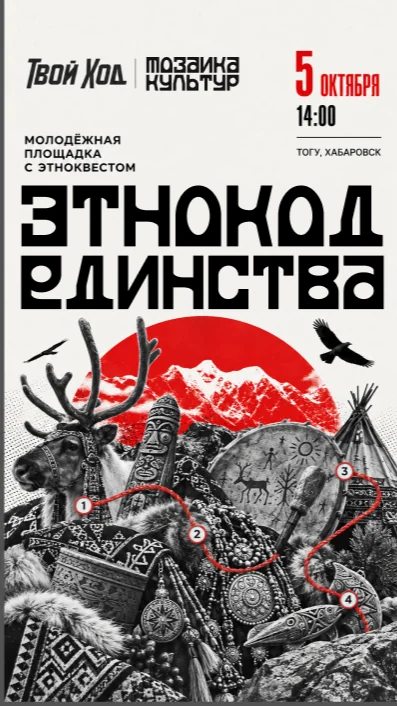
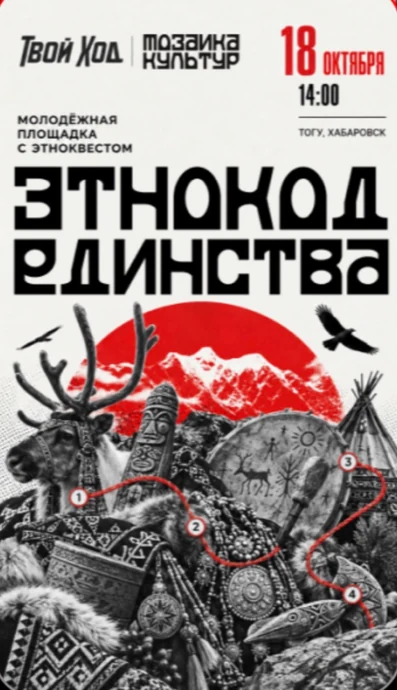
Update Ethnocode Unity poster and event date to October 18

diff --git a/index.html b/index.html
@@ -143,8 +143,8 @@
           <div class="upcoming-heading"><p class="overline">афиша · 2026</p><h2 id="upcoming-title">Планируемые мероприятия</h2><p>Новые встречи с культурами Дальнего Востока.</p><a class="upcoming-archive" href="#events">Прошедшие встречи <span aria-hidden="true">↓</span></a></div>
           <div class="upcoming-grid">
             <article class="upcoming-card" id="upcoming-ethnocode-unity">
-              <a class="upcoming-poster" href="assets/events/upcoming/ethnocode-unity-397.webp" target="_blank" rel="noopener" aria-label="Открыть афишу «Этнокод единства» (в новой вкладке)"><picture><source media="(max-width: 760px)" type="image/webp" srcset="assets/home-mobile-v3/upcoming/ethnocode-unity-240.webp 240w, assets/home-mobile-v3/upcoming/ethnocode-unity-384.webp 384w" sizes="calc(50vw - 26px)" /><img src="assets/events/upcoming/ethnocode-unity-397.webp" srcset="assets/events/upcoming/ethnocode-unity-320.webp 320w, assets/events/upcoming/ethnocode-unity-397.webp 397w" sizes="(min-width: 1200px) 280px, (min-width: 761px) 44vw, calc(50vw - 26px)" alt="Афиша «Этнокод единства»: 5 октября, 14:00. ТОГУ, Хабаровск" width="397" height="706" loading="lazy" decoding="async" /></picture><span class="upcoming-poster-link">Открыть афишу <svg viewBox="0 0 24 24" fill="none" stroke="currentColor" stroke-width="1.8" stroke-linecap="round" stroke-linejoin="round" aria-hidden="true"><path d="M5 12h14M12 5l7 7-7 7"/></svg></span></a>
-              <div class="upcoming-copy"><p class="upcoming-date"><time datetime="2026-10-05T14:00:00+10:00">5 октября</time><span>14:00</span></p><h3>Этнокод единства</h3><p class="upcoming-description">Молодёжная площадка с этноквестом.</p><p class="upcoming-place">ТОГУ, Хабаровск</p></div>
+              <a class="upcoming-poster" href="assets/events/upcoming/ethnocode-unity-oct18.jpg" target="_blank" rel="noopener" aria-label="Открыть афишу «Этнокод единства» (в новой вкладке)"><picture><source media="(max-width: 760px)" type="image/webp" srcset="assets/home-mobile-v3/upcoming/ethnocode-unity-240.webp?v=20261018 240w, assets/home-mobile-v3/upcoming/ethnocode-unity-384.webp?v=20261018 384w" sizes="calc(50vw - 26px)" /><img src="assets/events/upcoming/ethnocode-unity-397.webp?v=20261018" srcset="assets/events/upcoming/ethnocode-unity-320.webp?v=20261018 320w, assets/events/upcoming/ethnocode-unity-397.webp?v=20261018 397w" sizes="(min-width: 1200px) 280px, (min-width: 761px) 44vw, calc(50vw - 26px)" alt="Афиша «Этнокод единства»: 18 октября, 14:00. ТОГУ, Хабаровск" width="397" height="690" loading="lazy" decoding="async" /></picture><span class="upcoming-poster-link">Открыть афишу <svg viewBox="0 0 24 24" fill="none" stroke="currentColor" stroke-width="1.8" stroke-linecap="round" stroke-linejoin="round" aria-hidden="true"><path d="M5 12h14M12 5l7 7-7 7"/></svg></span></a>
+              <div class="upcoming-copy"><p class="upcoming-date"><time datetime="2026-10-18T14:00:00+10:00">18 октября</time><span>14:00</span></p><h3>Этнокод единства</h3><p class="upcoming-description">Молодёжная площадка с этноквестом.</p><p class="upcoming-place">ТОГУ, Хабаровск</p></div>
             </article>
             <article class="upcoming-card" id="upcoming-wind-trail">
               <a class="upcoming-poster" href="assets/events/upcoming/wind-trail-453.webp" target="_blank" rel="noopener" aria-label="Открыть афишу «По следам ветра» (в новой вкладке)"><picture><source media="(max-width: 760px)" type="image/webp" srcset="assets/home-mobile-v3/upcoming/wind-trail-240.webp 240w, assets/home-mobile-v3/upcoming/wind-trail-384.webp 384w" sizes="calc(50vw - 26px)" /><img src="assets/events/upcoming/wind-trail-453.webp" srcset="assets/events/upcoming/wind-trail-320.webp 320w, assets/events/upcoming/wind-trail-453.webp 453w" sizes="(min-width: 1200px) 280px, (min-width: 761px) 44vw, calc(50vw - 26px)" alt="Афиша «По следам ветра»: 11 ноября, 18:00. Досуговый центр · ул. Шевченко, 7А" width="453" height="800" loading="lazy" decoding="async" /></picture><span class="upcoming-poster-link">Открыть афишу <svg viewBox="0 0 24 24" fill="none" stroke="currentColor" stroke-width="1.8" stroke-linecap="round" stroke-linejoin="round" aria-hidden="true"><path d="M5 12h14M12 5l7 7-7 7"/></svg></span></a>
